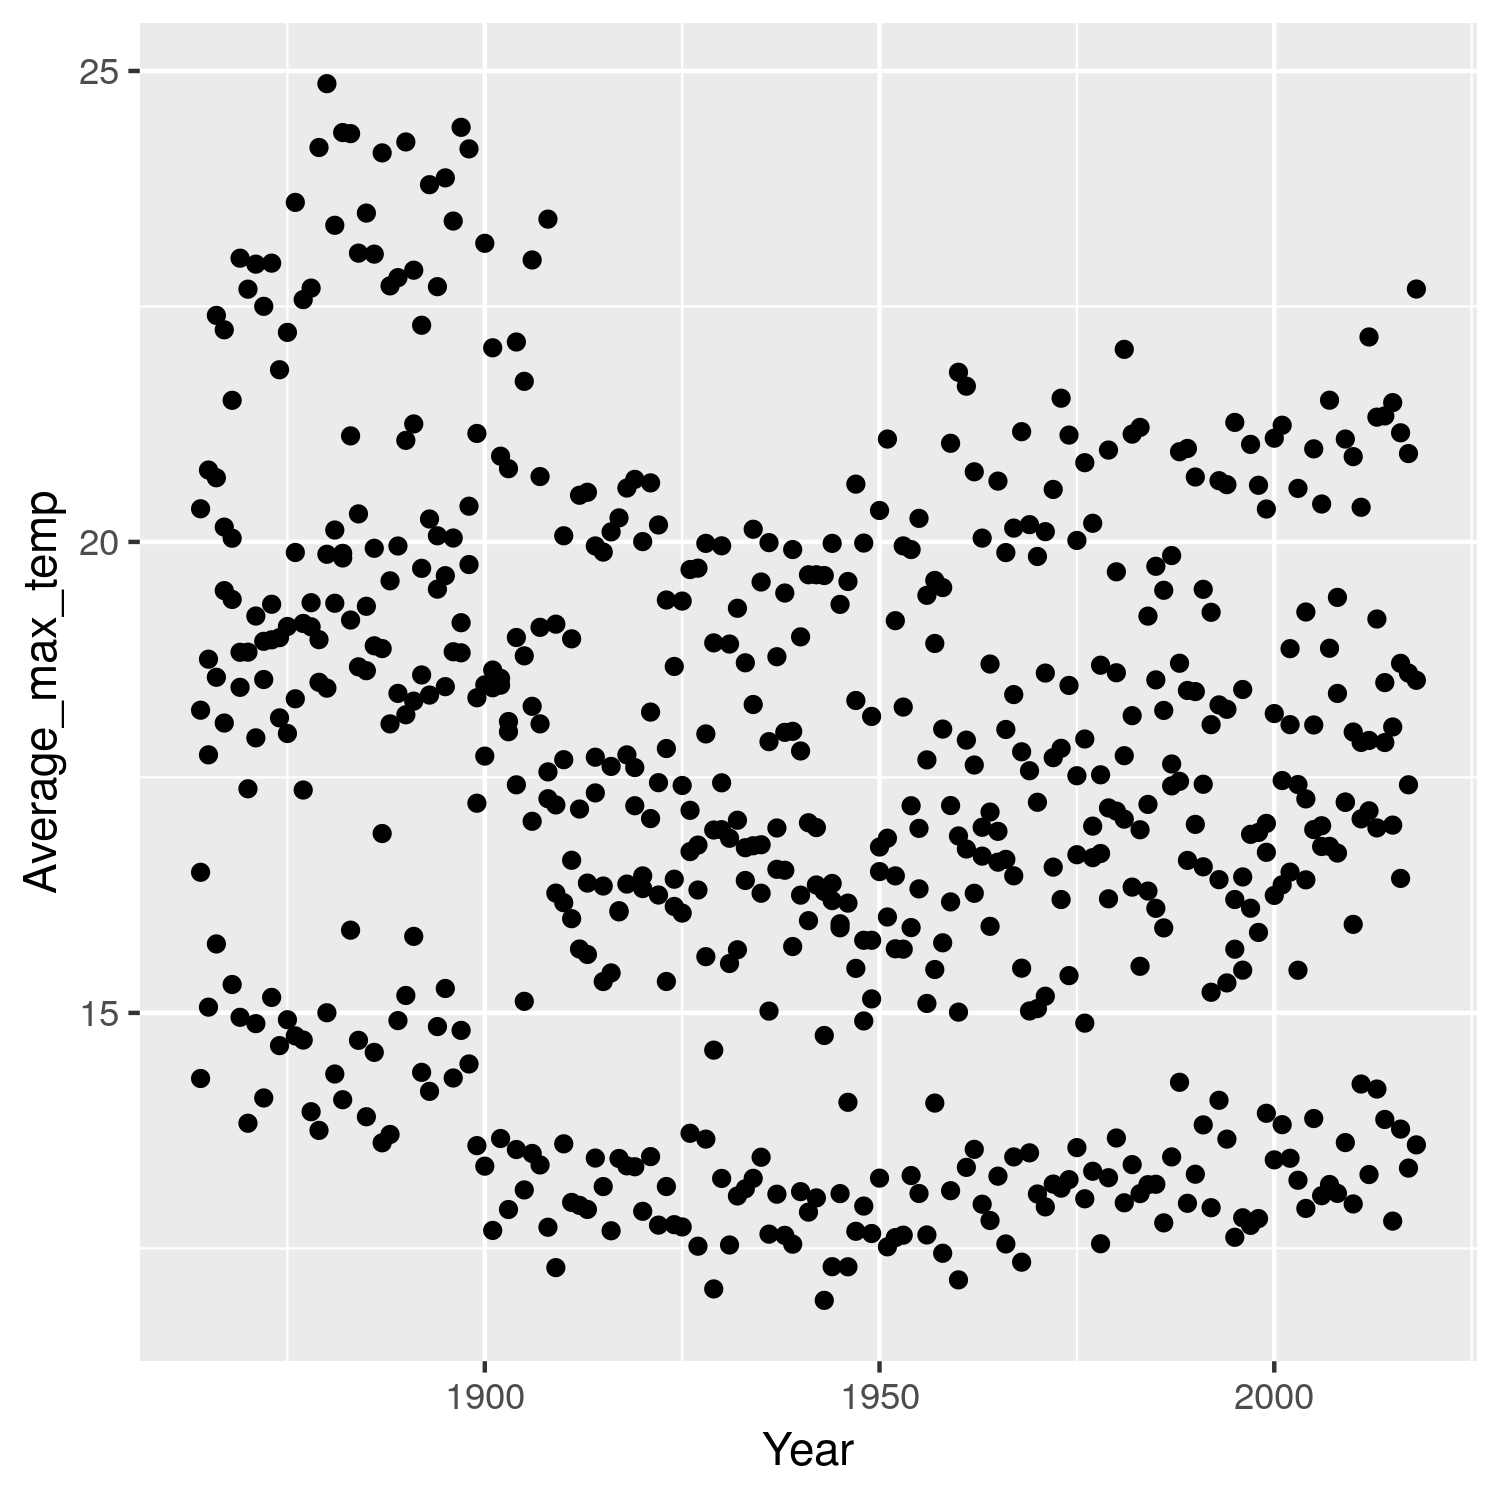
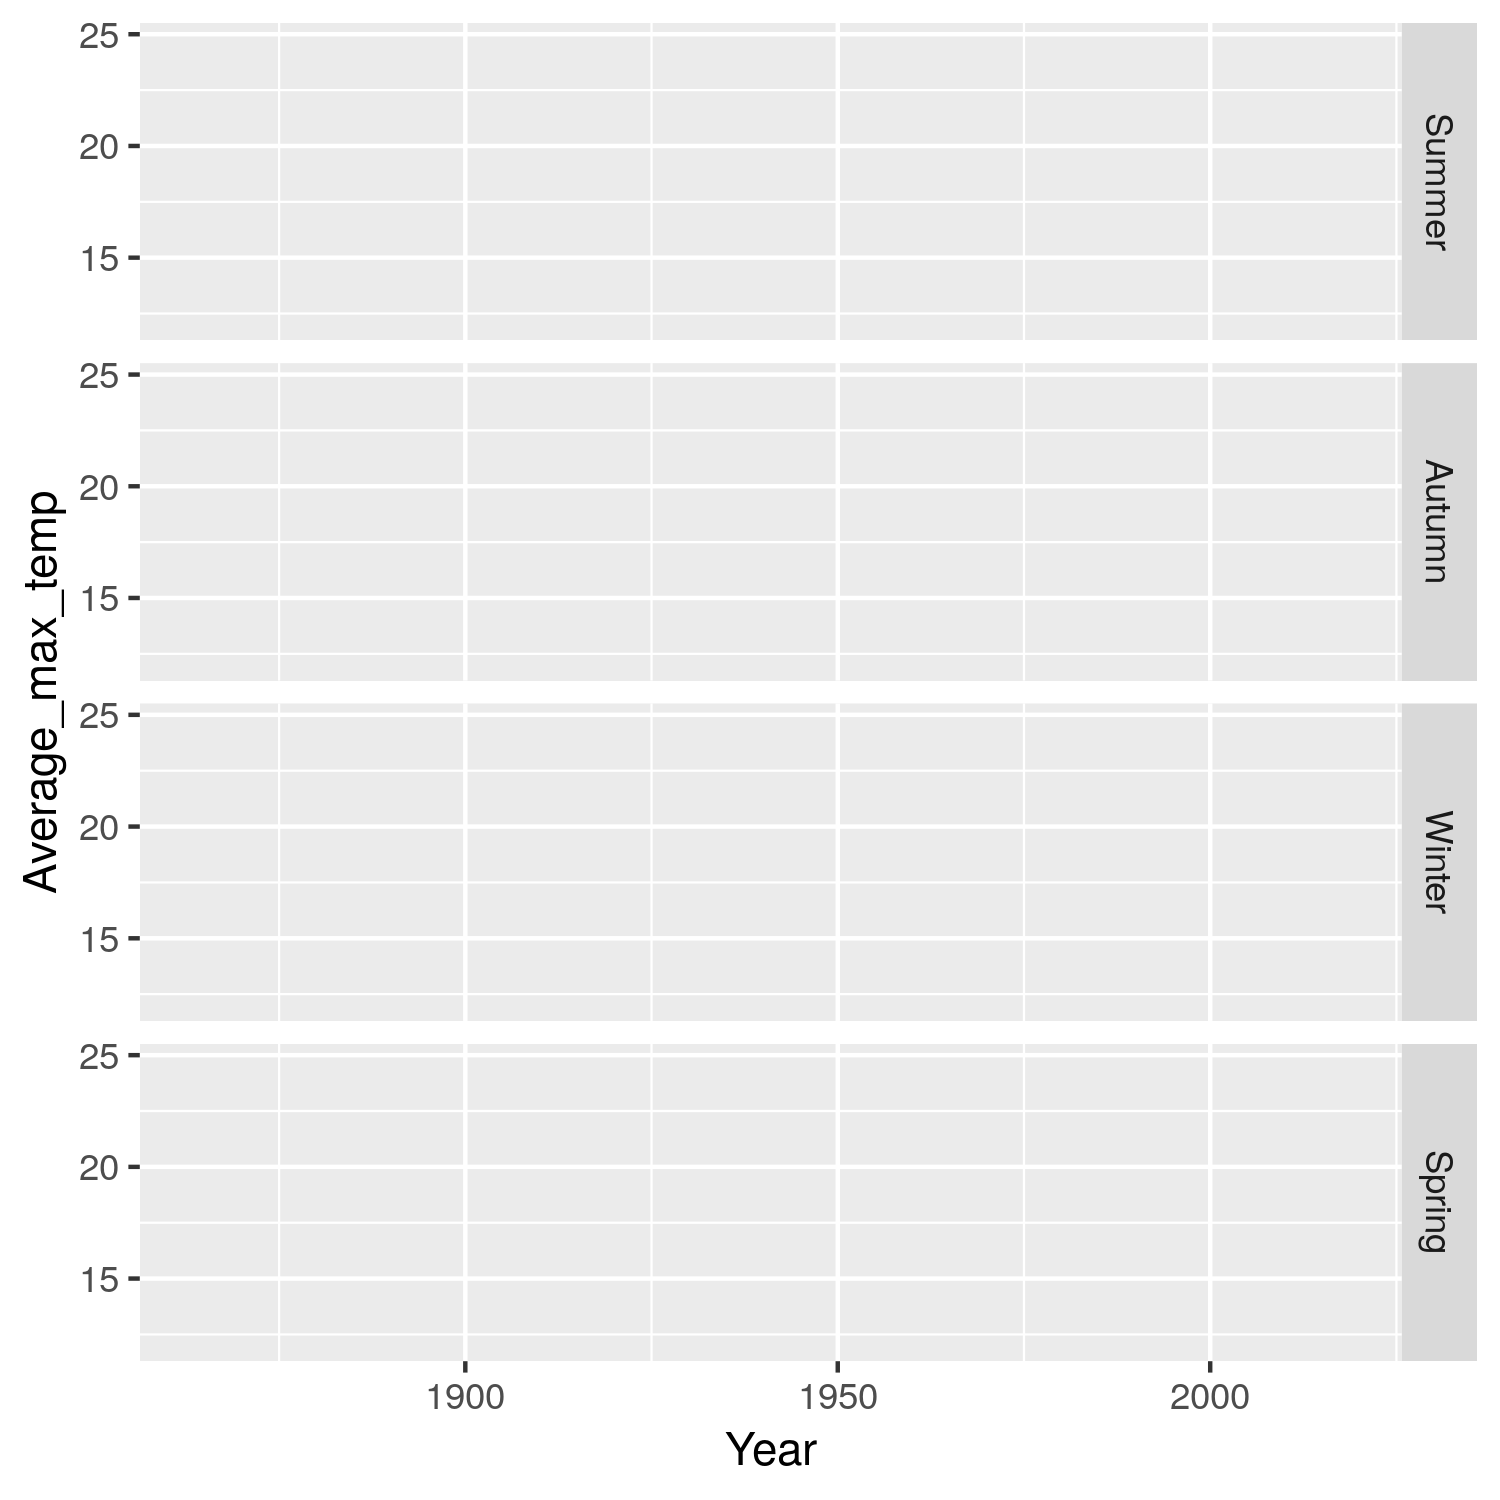
Reordered ggplot layers

diff --git a/user2018_full.html b/user2018_full.html
@@ -319,8 +319,8 @@ class: left
 weather_summarised %&gt;% 
     ggplot(
       aes(x = Year, y = Average_max_temp)
-    ) +
-    geom_point()
+    ) + 
+    facet_grid(Season ~ .)
 ```
 ]
 
@@ -338,9 +338,9 @@ class: left
 weather_summarised %&gt;% 
     ggplot(
       aes(x = Year, y = Average_max_temp)
-    ) +
-    geom_point() +
-    geom_smooth()
+    ) + 
+    facet_grid(Season ~ .) +
+    geom_point() 
 ```
 ]
 
@@ -359,9 +359,9 @@ weather_summarised %&gt;%
     ggplot(
       aes(x = Year, y = Average_max_temp)
     ) +
+    facet_grid(Season ~ .) +
     geom_point() +
-    geom_smooth() + 
-    facet_grid(Season ~ .)
+    geom_smooth() 
 ```
 
 We can pass this to plotly with the `ggplotly` function.
